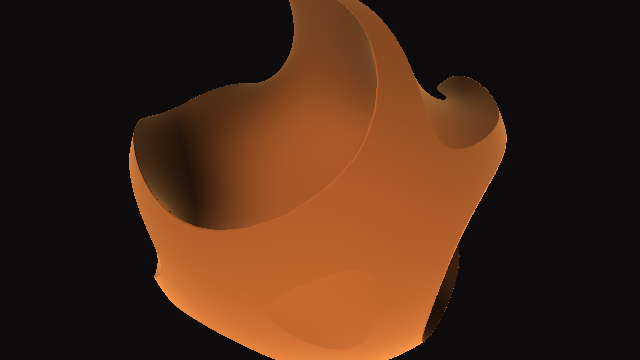
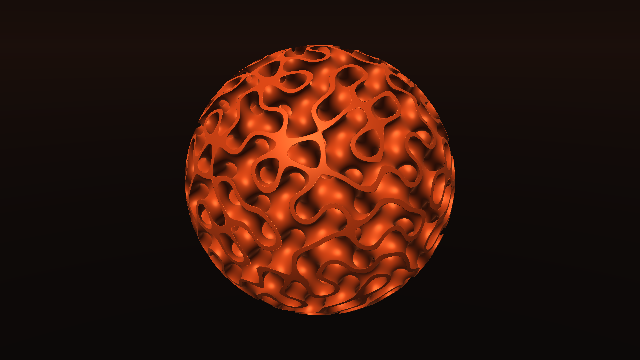
feat: 示例着色器精细打磨（细胞组织 / 高对比星云 / gyroid 晶格球）
- 流体细胞：域 warp 有机细胞壁、半透明胞质颗粒、偏心细胞核与核仁、F2−F1 细胞膜
- 电浆星云：值域重映射拉对比、暗底压深、双层闪烁星点
- 回旋晶格：改为 gyroid SDF 晶格球环绕构图（内部视角最近墙面糊屏，弃用）
- 修复无头渲染 PNG 上下翻转（GPU readback 行序自底向上）
- 文案同步为新效果描述

diff --git a/src/components/shaders.ts b/src/components/shaders.ts
@@ -7,31 +7,62 @@ fn hash22(p: vec2f) -> vec2f {
   return fract(sin(h) * 43758.5453);
 }
 
+fn grain(p: vec2f) -> f32 {
+  return fract(sin(dot(p, vec2f(41.3, 289.1))) * 23758.5453);
+}
+
+fn noise(p: vec2f) -> f32 {
+  let i = floor(p);
+  let f = fract(p);
+  let u = f * f * (3.0 - 2.0 * f);
+  return mix(mix(grain(i), grain(i + vec2f(1.0, 0.0)), u.x),
+             mix(grain(i + vec2f(0.0, 1.0)), grain(i + vec2f(1.0, 1.0)), u.x), u.y);
+}
+
 @fragment fn fs_main(@location(0) uv: vec2f) -> @location(0) vec4f {
-  var p = vec2f(uv.x * 2.0 - 1.0, uv.y * 2.0 - 1.0);
+  let sp = vec2f(uv.x * 2.0 - 1.0, uv.y * 2.0 - 1.0);
+  var p = sp;
   p.x *= 16.0 / 9.0;
-  p *= 2.6;
+  p *= 3.0;
+  let w = vec2f(noise(p * 1.7 + params.time * 0.10), noise(p * 1.7 + vec2f(31.7, 7.3) - params.time * 0.08));
+  p += (w - 0.5) * 0.45;
   let ip = floor(p);
   let fp = fract(p);
-  var md = 8.0;
+  var d1 = 8.0;
+  var d2 = 8.0;
   var mg = vec2f(0.0);
+  var mo = vec2f(0.0);
   for (var y = -1; y <= 1; y++) {
     for (var x = -1; x <= 1; x++) {
       let g = vec2f(f32(x), f32(y));
       var o = hash22(ip + g);
-      o = 0.5 + 0.42 * sin(params.time * 0.7 + 6.2831 * o);
-      let r = g + o - fp;
-      let d = dot(r, r);
-      if (d < md) { md = d; mg = g; }
+      o = 0.5 + 0.44 * sin(params.time * 0.55 + 6.2831 * o + vec2f(0.0, 1.9));
+      let d = length(g + o - fp);
+      if (d < d1) { d2 = d1; d1 = d; mg = g; mo = o; } else if (d < d2) { d2 = d; }
     }
   }
-  md = sqrt(md);
   let h = hash22(ip + mg).x;
-  var cell = 0.5 + 0.5 * cos(params.time * 0.25 + 6.2831 * h + vec3f(0.0, 2.1, 4.2));
-  cell = mix(vec3f(0.08, 0.06, 0.06), vec3f(1.0, 0.55, 0.2), cell * (0.25 + 0.75 * h));
-  let border = 1.0 - smoothstep(0.0, 0.12, md);
-  var col = cell * (1.0 - border * 0.6) + vec3f(1.0, 0.85, 0.6) * border * 0.9;
-  col *= 1.0 - dot(p * 0.16, p * 0.16);
+  let h2 = hash22(ip + mg + 7.3).x;
+  let gran = noise(p * 9.0 + params.time * 0.15);
+  var col = mix(vec3f(0.16, 0.07, 0.05), vec3f(0.42, 0.18, 0.10), h * h);
+  col *= 0.80 + 0.40 * gran;
+  col *= 0.90 + 0.10 * sin(params.time * 0.5 + h * 6.2831);
+  let nc = fp - (mg + mo) - (vec2f(h, h2) - 0.5) * 0.22;
+  let nd = length(nc);
+  let nr = 0.14 + 0.16 * h2 + 0.02 * sin(params.time * 0.8 + h * 6.2831);
+  let nucleus = 1.0 - smoothstep(nr, nr + 0.18, nd);
+  let envelope = nucleus * (0.55 + 0.45 * smoothstep(nr * 0.45, nr, nd));
+  let nucleolus = 1.0 - smoothstep(0.04, 0.085, nd);
+  col *= 0.75 + 0.45 * (1.0 - smoothstep(0.0, 0.9, nd));
+  col = mix(col, vec3f(0.58, 0.24, 0.12), envelope * 0.8);
+  col += vec3f(1.0, 0.62, 0.34) * nucleolus * nucleus * 0.5;
+  let edge = d2 - d1;
+  col *= 0.35 + 0.65 * smoothstep(0.0, 0.22, edge);
+  let mem = 1.0 - smoothstep(0.0, 0.055, edge);
+  let halo = 1.0 - smoothstep(0.0, 0.22, edge);
+  col += vec3f(1.0, 0.72, 0.44) * mem * mem * 1.0;
+  col += vec3f(0.85, 0.38, 0.20) * halo * halo * 0.10;
+  col *= clamp(1.0 - 0.16 * dot(sp, sp), 0.0, 1.0);
   return vec4f(col, 1.0);
 }`;
 
@@ -39,17 +70,16 @@ export const nebulaShader = `
 struct Params { time: f32 }
 @group(0) @binding(0) var<uniform> params: Params;
 
-fn hash22(p: vec2f) -> vec2f {
-  let h = vec2f(dot(p, vec2f(127.1, 311.7)), dot(p, vec2f(269.5, 183.3)));
-  return fract(sin(h) * 43758.5453);
+fn hash21(p: vec2f) -> f32 {
+  return fract(sin(dot(p, vec2f(127.1, 311.7))) * 43758.5453);
 }
 
 fn noise(p: vec2f) -> f32 {
   let i = floor(p);
   let f = fract(p);
   let u = f * f * (3.0 - 2.0 * f);
-  return mix(mix(hash22(i).x, hash22(i + vec2f(1.0, 0.0)).x, u.x),
-             mix(hash22(i + vec2f(0.0, 1.0)).x, hash22(i + vec2f(1.0, 1.0)).x, u.x), u.y);
+  return mix(mix(hash21(i), hash21(i + vec2f(1.0, 0.0)), u.x),
+             mix(hash21(i + vec2f(0.0, 1.0)), hash21(i + vec2f(1.0, 1.0)), u.x), u.y);
 }
 
 fn fbm(p: vec2f) -> f32 {
@@ -64,23 +94,33 @@ fn fbm(p: vec2f) -> f32 {
   return v;
 }
 
+fn stars(p: vec2f, cutoff: f32) -> f32 {
+  let ip = floor(p);
+  let fp = fract(p);
+  let h = hash21(ip);
+  if (h < cutoff) { return 0.0; }
+  let pos = vec2f(hash21(ip + 3.1), hash21(ip + 7.7));
+  let d = length(fp - pos);
+  let tw = 0.55 + 0.45 * sin(params.time * 1.8 + h * 80.0);
+  return (1.0 - smoothstep(0.0, 0.30, d)) * tw * (h - cutoff) / (1.0 - cutoff);
+}
+
 @fragment fn fs_main(@location(0) uv: vec2f) -> @location(0) vec4f {
-  var p = vec2f(uv.x * 2.0 - 1.0, uv.y * 2.0 - 1.0);
+  let sp = vec2f(uv.x * 2.0 - 1.0, uv.y * 2.0 - 1.0);
+  var p = sp;
   p.x *= 16.0 / 9.0;
-  let t = params.time * 0.08;
-  let q = vec2f(fbm(p * 1.5 + t), fbm(p * 1.5 + vec2f(5.2, 1.3) - t));
-  let f = fbm(p * 1.5 + q * 2.0 + vec2f(1.7 - t, 9.2));
-  var col = mix(vec3f(0.05, 0.04, 0.05), vec3f(0.55, 0.2, 0.08), clamp(f * f * 3.0, 0.0, 1.0));
-  col = mix(col, vec3f(0.95, 0.55, 0.25), clamp(pow(f, 3.0) * 4.0, 0.0, 1.0));
-  col = mix(col, vec3f(1.0, 0.9, 0.75), clamp(pow(f, 8.0) * 5.0, 0.0, 1.0));
-  // stars
-  let cell = floor(p * 60.0);
-  let s = hash22(cell).x;
-  if (s > 0.992) {
-    col += vec3f(1.0) * (0.5 + 0.5 * sin(params.time * 2.0 + s * 50.0)) * 0.7;
-  }
-  let vig = 1.0 - dot(p * 0.45, p * 0.45);
-  return vec4f(col * clamp(vig, 0.0, 1.0), 1.0);
+  let t = params.time * 0.06;
+  let q = vec2f(fbm(p * 1.4 + vec2f(0.0, t)), fbm(p * 1.4 + vec2f(5.2, 1.3) - t));
+  let f = fbm(p * 1.6 + q * 2.2 + vec2f(1.7, 9.2));
+  let m = clamp((f - 0.28) / 0.52, 0.0, 1.0);
+  var col = vec3f(0.016, 0.013, 0.012);
+  col = mix(col, vec3f(0.20, 0.07, 0.038), smoothstep(0.05, 0.55, m));
+  col = mix(col, vec3f(0.68, 0.28, 0.12), smoothstep(0.45, 0.80, m));
+  col = mix(col, vec3f(1.0, 0.78, 0.52), smoothstep(0.78, 0.98, m));
+  col += vec3f(1.0, 0.90, 0.76) * stars(p * 64.0, 0.90) * 0.9;
+  col += vec3f(1.0, 0.82, 0.62) * stars(p * 128.0 + 11.0, 0.94) * 0.35;
+  col *= clamp(1.0 - 0.20 * dot(sp, sp), 0.0, 1.0);
+  return vec4f(col, 1.0);
 }`;
 
 export const gyroidShader = `
@@ -88,45 +128,62 @@ struct Params { time: f32 }
 @group(0) @binding(0) var<uniform> params: Params;
 
 fn map(p: vec3f) -> f32 {
-  let q = p * 2.2;
-  let g = abs(dot(sin(q), cos(q.yzx))) * 0.5 / 2.2 - 0.04;
-  return max(g, length(p) - 1.3);
+  let q = p * 12.0;
+  let g = dot(sin(q), cos(q.yzx));
+  let shell = abs(g) / 17.4 - 0.02;
+  return max(shell, length(p) - 1.5);
 }
 
 fn calcNormal(p: vec3f) -> vec3f {
-  let e = 0.002;
+  let e = 0.001;
   let h = vec2f(1.0, -1.0);
   return normalize(h.xyy * map(p + h.xyy * e) + h.yyx * map(p + h.yyx * e) +
                    h.yxy * map(p + h.yxy * e) + h.xxx * map(p + h.xxx * e));
 }
 
 @fragment fn fs_main(@location(0) uv: vec2f) -> @location(0) vec4f {
-  var p = vec2f(uv.x * 2.0 - 1.0, uv.y * 2.0 - 1.0);
+  let sp = vec2f(uv.x * 2.0 - 1.0, uv.y * 2.0 - 1.0);
+  var p = sp;
   p.x *= 16.0 / 9.0;
-  let t = params.time * 0.3;
-  let ro = vec3f(sin(t) * 2.1, sin(t * 0.6) * 1.0, cos(t) * 2.1);
-  let ta = vec3f(0.0);
-  let fw = normalize(ta - ro);
+  let t = params.time * 0.15;
+  let a = t * 0.35;
+  let ro = vec3f(cos(a) * 5.2, 1.4 + 0.5 * sin(a * 0.7), sin(a) * 5.2);
+  let fw = normalize(-ro);
   let rt = normalize(cross(fw, vec3f(0.0, 1.0, 0.0)));
   let up = cross(rt, fw);
-  let rd = normalize(p.x * rt + p.y * up + 1.4 * fw);
+  let rd = normalize(p.x * rt + p.y * up + 2.6 * fw);
   var tt = 0.0;
   var hit = false;
-  for (var i = 0; i < 72; i++) {
+  for (var i = 0; i < 128; i++) {
     let d = map(ro + rd * tt);
-    if (d < 0.0015) { hit = true; break; }
-    tt += d * 0.9;
+    if (d < 0.0008) { hit = true; break; }
+    tt += d;
     if (tt > 8.0) { break; }
   }
-  var col = vec3f(0.05, 0.045, 0.045);
+  let bg = vec3f(0.045, 0.034, 0.030) + vec3f(0.06, 0.024, 0.012) * pow(max(0.0, 1.0 - abs(rd.y)), 4.0);
+  var col = bg;
   if (hit) {
     let pos = ro + rd * tt;
-    let n = calcNormal(pos);
-    let light = normalize(vec3f(0.6, 0.8, 0.7));
-    let diff = max(dot(n, light), 0.0);
+    var n = calcNormal(pos);
+    if (dot(n, rd) > 0.0) { n = -n; }
+    var occ = 0.0;
+    var sca = 1.0;
+    for (var i = 0; i < 4; i++) {
+      let d = 0.01 + 0.09 * f32(i) / 3.0;
+      occ += (d - map(pos + n * d)) * sca;
+      sca *= 0.65;
+    }
+    let ao = clamp(1.0 - 1.6 * occ, 0.0, 1.0);
+    let l1 = normalize(vec3f(0.7, 0.9, 0.4));
+    let diff = max(dot(n, l1), 0.0);
+    let hv = normalize(l1 - rd);
+    let spec = pow(max(dot(n, hv), 0.0), 28.0);
     let fres = pow(1.0 - max(dot(n, -rd), 0.0), 3.0);
-    col = vec3f(0.85, 0.45, 0.2) * (0.15 + 0.85 * diff) + vec3f(1.0, 0.7, 0.4) * fres * 0.6;
-    col *= exp(-tt * 0.12);
+    col = vec3f(0.78, 0.40, 0.20) * diff * vec3f(1.0, 0.62, 0.34)
+        + vec3f(0.78, 0.40, 0.20) * vec3f(0.18, 0.11, 0.09) * ao
+        + vec3f(1.0, 0.72, 0.45) * spec * 0.35
+        + vec3f(1.0, 0.48, 0.24) * fres * 0.30;
+    col = mix(col, bg, 1.0 - exp(-0.004 * tt * tt));
   }
   return vec4f(col, 1.0);
 }`;

diff --git a/scripts/render-examples.ts b/scripts/render-examples.ts
@@ -12,7 +12,7 @@ const H = 360;
 const jobs: Array<[string, string, number]> = [
   ['voronoi', voronoiShader, 3.0],
   ['nebula', nebulaShader, 6.0],
-  ['gyroid', gyroidShader, 2.5],
+  ['gyroid', gyroidShader, 5.0],
 ];
 
 const gpu = await init();
@@ -22,7 +22,11 @@ for (const [name, src, time] of jobs) {
   fx.draw(colorTarget);
   const pixels = await colorTarget.color.read({ mipLevel: 0, region: 'all' });
   const png = new PNG({ width: W, height: H });
-  png.data = Buffer.from(pixels);
+  // GPU readback 行序为自底向上，翻转为 PNG 的自顶向下
+  for (let y = 0; y < H; y++) {
+    const src = (H - 1 - y) * W * 4;
+    png.data.set(pixels.subarray(src, src + W * 4), y * W * 4);
+  }
   mkdirSync('public/examples', { recursive: true });
   writeFileSync(`public/examples/${name}.png`, PNG.sync.write(png));
   console.log(`wrote public/examples/${name}.png (${pixels.length} bytes read)`);
